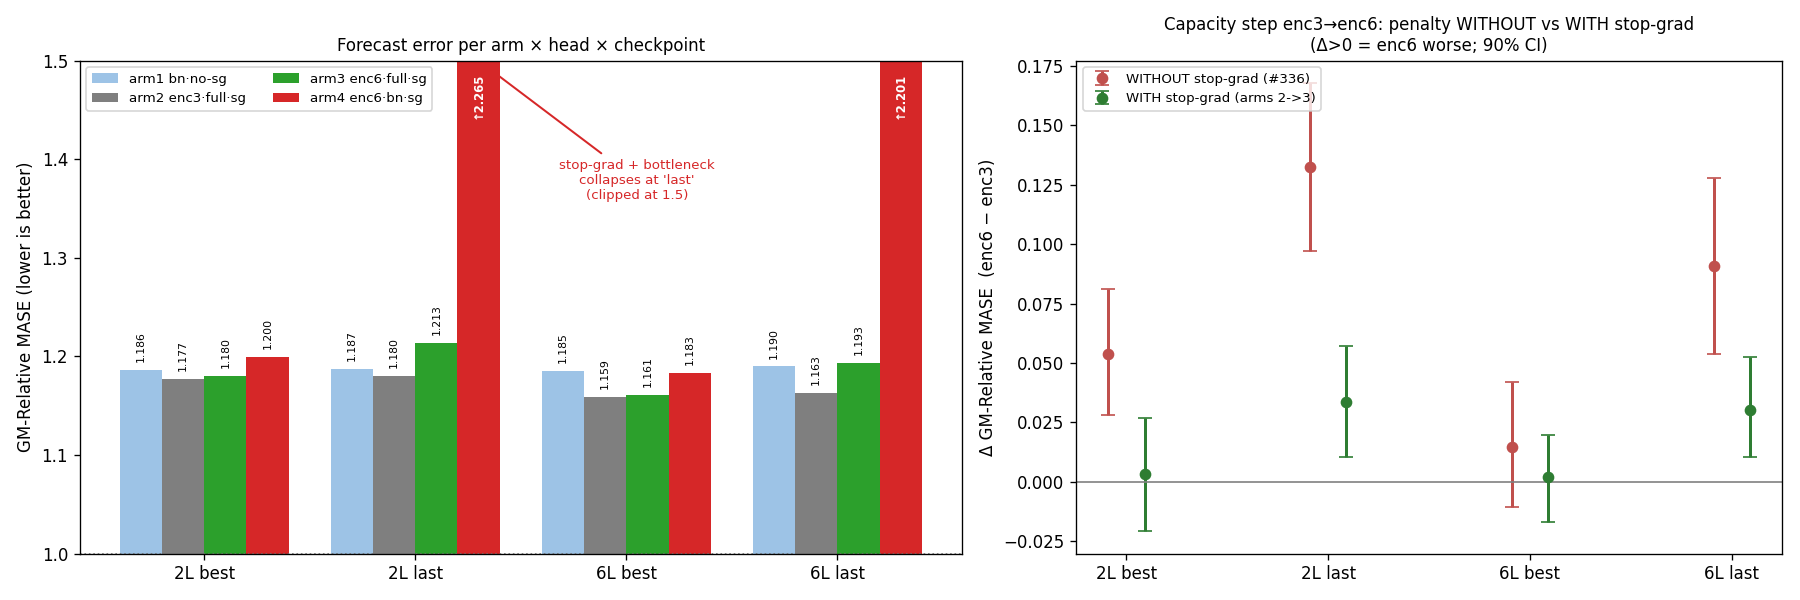
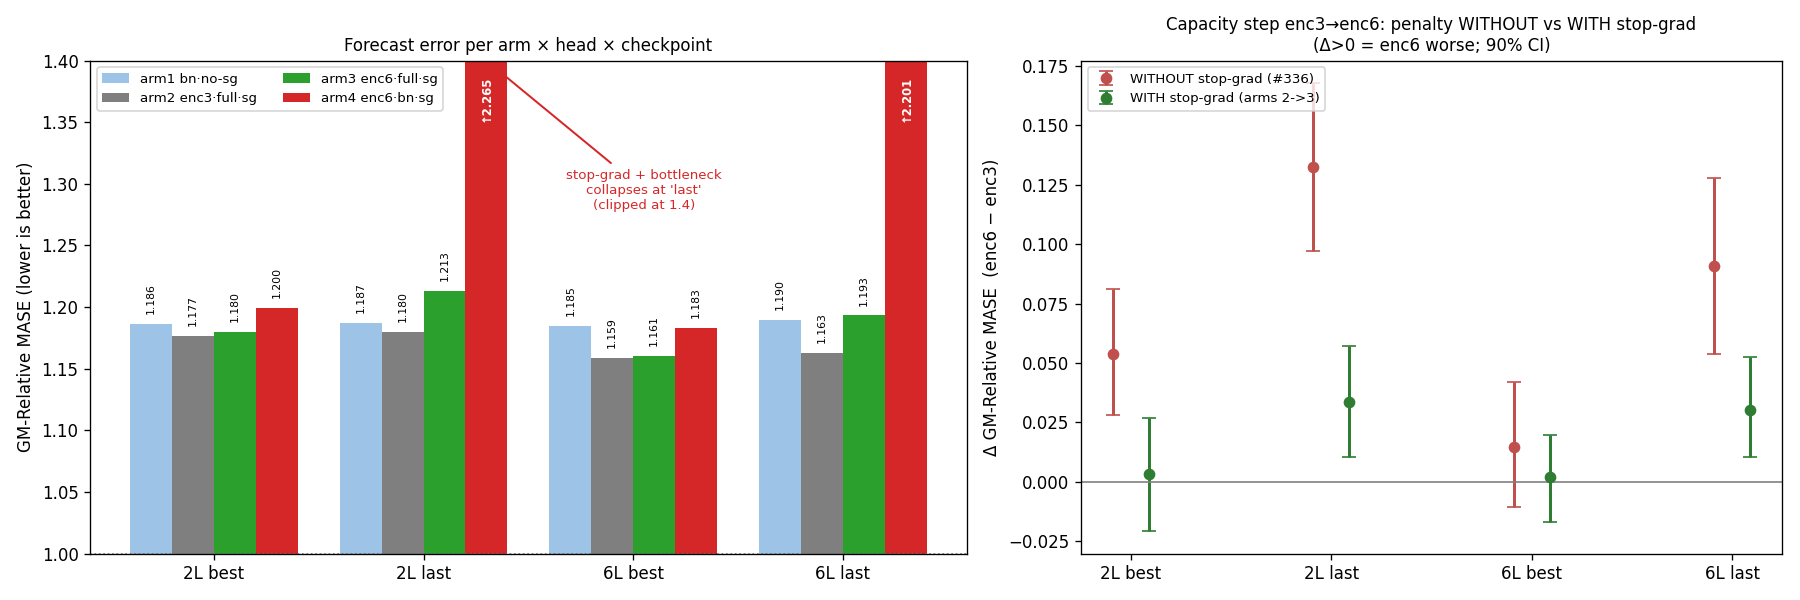
report(#341): design as comparison chain + tighter prose (per maintainer)
- design figure: replace 2x2 grid with a comparison chain (arm2 -depth-> arm3
  -width-> arm4, arm1 as no-stop-grad control under arm4). Drops the irrelevant
  never-run enc3xbottleneck cell; arm1 is now a real red control box so the
  legend's red chip has a referent.
- bar charts: clip collapsed bars at 1.4 (was 1.5) for tighter legibility.
- gm_by_arch placed above gm_summary.
- prose: sentence-by-sentence prune (remove restatements already carried by the
  figures/table); remove speculative Follow-up section; rewrite design caption
  for the chain.

diff --git a/experiments/2026-06-11_stopgrad_capacity/scripts/plot_design_grid.py b/experiments/2026-06-11_stopgrad_capacity/scripts/plot_design_grid.py
@@ -1,10 +1,9 @@
 #!/usr/bin/env python3
-"""#341 — design schematic: the four arms placed on the encoder-depth x
-forecaster-width plane (all stop-grad), so the experiment's shape is shown, not
-tabulated in prose. Arms 1-2 are reused references; 3-4 are new. Arm 1 shares the
-enc6 x bottleneck cell with arm 4 but is the no-stop-grad reference (marked). The
-two comparisons the card makes are drawn as arrows: the depth step (a2->a3) and
-the bottleneck step (a3->a4). Env: OUT.
+"""#341 — design schematic as a COMPARISON CHAIN (not a 2x2 grid: the enc3 x
+bottleneck cell is never run and irrelevant, so a grid wastes a cell). From the
+#339 stop-grad winner (arm 2), a depth step gives arm 3, then a width step gives
+arm 4. Arm 1 is the same enc6 x bottleneck architecture with the stop-grad removed
+— the control that isolates stop-grad's role in arm 4's collapse. Env: OUT.
 """
 import os
 import matplotlib
@@ -17,109 +16,70 @@ OUT = os.environ.get(
     "/tmp/cf-341/experiments/2026-06-11_stopgrad_capacity/plots/design_grid.png",
 )
 
-# grid coords: x = forecaster width, y = encoder depth
-XS = {"full": 0, "bn": 1}          # full-width left, 128-bottleneck right
-YS = {"enc3": 1, "enc6": 0}        # 3-layer top, 6-layer bottom
-XLAB = ["6-layer full-width\nforecaster", "128-wide bottleneck\nforecaster"]
-YLAB = ["6-layer encoder", "3-layer encoder"]  # row 0 = enc6, row 1 = enc3
+NEW, REUSE, NOSG = "#2ca02c", "#7f7f7f", "#c0504d"
+CW, CH = 1.34, 0.76
 
-NEW = "#2ca02c"
-REUSE = "#7f7f7f"
-NOSG = "#c0504d"
-
-# (x, y, title, sub, facecolor, edgecolor)
-CARDS = [
-    ("full", "enc3", "arm 2", "enc3 · full · sg\nreused — #339 winner", "#eef6ee", REUSE),
-    ("full", "enc6", "arm 3", "enc6 · full · sg\nNEW", "#eaf5ea", NEW),
-    ("bn",   "enc6", "arm 4", "enc6 · bn · sg\nNEW", "#eaf5ea", NEW),
-]
-
-fig, ax = plt.subplots(figsize=(9.2, 6.2))
-cw, ch = 0.78, 0.62
+fig, ax = plt.subplots(figsize=(10.6, 4.7))
 
 
-def cell_center(xk, yk):
-    return XS[xk] + 0.5, (1 - YS[yk]) + 0.5  # invert y so enc6 sits at bottom visually
-
-
-def draw_card(xk, yk, title, sub, fc, ec, lw=2.0, dashed=False):
-    cx, cy = cell_center(xk, yk)
-    box = FancyBboxPatch(
-        (cx - cw / 2, cy - ch / 2), cw, ch,
-        boxstyle="round,pad=0.02,rounding_size=0.06",
-        linewidth=lw, edgecolor=ec, facecolor=fc,
-        linestyle="--" if dashed else "-", zorder=3,
-    )
-    ax.add_patch(box)
-    ax.text(cx, cy + 0.14, title, ha="center", va="center",
+def card(cx, cy, title, sub, fc, ec, dashed=False):
+    ax.add_patch(FancyBboxPatch(
+        (cx - CW / 2, cy - CH / 2), CW, CH,
+        boxstyle="round,pad=0.02,rounding_size=0.05", linewidth=2.0,
+        edgecolor=ec, facecolor=fc, linestyle="--" if dashed else "-", zorder=3))
+    ax.text(cx, cy + CH * 0.20, title, ha="center", va="center",
             fontsize=13, fontweight="bold", color=ec, zorder=4)
-    ax.text(cx, cy - 0.08, sub, ha="center", va="center",
+    ax.text(cx, cy - CH * 0.17, sub, ha="center", va="center",
             fontsize=9.5, color="#222", zorder=4)
     return cx, cy
 
 
-# the three stop-grad arms
-centers = {}
-for xk, yk, title, sub, fc, ec in CARDS:
-    centers[(xk, yk)] = draw_card(xk, yk, title, sub, fc, ec)
+# main chain: arm 2 -> arm 3 -> arm 4 (left to right)
+y0 = 1.30
+x2, x3, x4 = 0.0, 1.98, 3.96
+card(x2, y0, "arm 2", "enc3 · full · sg\nreused — #339 winner", "#eef6ee", REUSE)
+card(x3, y0, "arm 3", "enc6 · full · sg\nNEW", "#eaf5ea", NEW)
+card(x4, y0, "arm 4", "enc6 · bn · sg\nNEW", "#eaf5ea", NEW)
+# control hanging below arm 4 (same architecture, stop-grad removed)
+y1 = 0.02
+card(x4, y1, "arm 1", "enc6 · bn · NO sg\nreused — #336 control", "#fbeaea", NOSG)
 
-# arm 1: the no-stop-grad reference shares the enc6 x bottleneck cell with arm 4.
-# Draw it as a small offset/dashed tag so the reader sees it is the SAME architecture
-# minus the stop-grad, not a fifth cell.
-cx4, cy4 = centers[("bn", "enc6")]
-ax.text(cx4, cy4 - ch / 2 - 0.135,
-        "arm 1 — same cell, NO stop-grad (reused #336 reference)",
-        ha="center", va="center", fontsize=9, color=NOSG, fontweight="bold", zorder=4)
 
-# empty stop-grad cell (enc3 x bottleneck) — never run
-ecx, ecy = cell_center("bn", "enc3")
-ax.add_patch(FancyBboxPatch(
-    (ecx - cw / 2, ecy - ch / 2), cw, ch,
-    boxstyle="round,pad=0.02,rounding_size=0.06",
-    linewidth=1.4, edgecolor="#bbbbbb", facecolor="#f4f4f4",
-    linestyle=":", zorder=2))
-ax.text(ecx, ecy, "(not run)", ha="center", va="center",
-        fontsize=10, color="#999", style="italic", zorder=3)
+def harrow(xa, xb, y, color):
+    ax.add_patch(FancyArrowPatch((xa, y), (xb, y), arrowstyle="-|>",
+                 mutation_scale=20, lw=2.2, color=color, zorder=5))
 
-# comparison arrows
-# depth step: a2 (enc3 full) -> a3 (enc6 full), vertical
-c2 = centers[("full", "enc3")]; c3 = centers[("full", "enc6")]
-ax.add_patch(FancyArrowPatch(
-    (c2[0] - 0.12, c2[1] - ch / 2), (c3[0] - 0.12, c3[1] + ch / 2),
-    arrowstyle="-|>", mutation_scale=18, lw=2.0, color="#1a6e1a", zorder=5))
-ax.text(c2[0] - 0.30, (c2[1] + c3[1]) / 2, "depth step\nenc3→enc6", ha="right",
-        va="center", fontsize=9, color="#1a6e1a", fontweight="bold")
 
-# bottleneck step: a3 (enc6 full) -> a4 (enc6 bn), horizontal
-c4 = centers[("bn", "enc6")]
-ax.add_patch(FancyArrowPatch(
-    (c3[0] + cw / 2, c3[1] - 0.04), (c4[0] - cw / 2, c4[1] - 0.04),
-    arrowstyle="-|>", mutation_scale=18, lw=2.0, color="#b8860b", zorder=5))
-ax.text((c3[0] + c4[0]) / 2, c3[1] + 0.12, "width step\nfull→bottleneck", ha="center",
-        va="bottom", fontsize=9, color="#b8860b", fontweight="bold")
+# depth step: arm 2 -> arm 3
+harrow(x2 + CW / 2, x3 - CW / 2, y0, "#1a6e1a")
+ax.text((x2 + x3) / 2, y0 + CH / 2 + 0.10, "depth step\nenc3→enc6", ha="center",
+        va="bottom", fontsize=10, color="#1a6e1a", fontweight="bold")
+# width step: arm 3 -> arm 4
+harrow(x3 + CW / 2, x4 - CW / 2, y0, "#b8860b")
+ax.text((x3 + x4) / 2, y0 + CH / 2 + 0.10, "width step\nfull→bottleneck", ha="center",
+        va="bottom", fontsize=10, color="#b8860b", fontweight="bold")
+# control: arm 4 -> arm 1 (remove stop-grad), vertical dashed
+ax.add_patch(FancyArrowPatch((x4, y0 - CH / 2), (x4, y1 + CH / 2), arrowstyle="-|>",
+             mutation_scale=20, lw=2.2, color=NOSG, zorder=5, linestyle="--"))
+ax.text(x4 + CW / 2 + 0.14, (y0 + y1) / 2, "remove\nstop-grad\n(control)", ha="left",
+        va="center", fontsize=9.5, color=NOSG, fontweight="bold")
 
-# axes cosmetics
-ax.set_xlim(-0.55, 2.05)
-ax.set_ylim(-0.35, 2.15)
-ax.set_xticks([0.5, 1.5]); ax.set_xticklabels(XLAB, fontsize=10.5)
-ax.set_yticks([1.5, 0.5]); ax.set_yticklabels(YLAB, fontsize=10.5)
-ax.tick_params(length=0)
-for s in ax.spines.values():
-    s.set_visible(False)
-ax.set_title("Four arms on the encoder-depth × forecaster-width plane "
-             "(all stop-grad unless marked)", fontsize=12.5, pad=12)
+ax.set_xlim(-CW / 2 - 0.35, x4 + CW / 2 + 1.55)
+ax.set_ylim(y1 - CH / 2 - 0.30, y0 + CH / 2 + 0.62)
+ax.axis("off")
+ax.set_title("The four arms as a comparison chain: two capacity steps under stop-grad, "
+             "plus the no-stop-grad control", fontsize=12.5, pad=8)
 
-# legend chips
 handles = [
-    plt.Line2D([0], [0], marker="s", color="w", markerfacecolor="w",
-               markeredgecolor=NEW, markeredgewidth=2, markersize=13, label="new this card (stop-grad)"),
-    plt.Line2D([0], [0], marker="s", color="w", markerfacecolor="w",
-               markeredgecolor=REUSE, markeredgewidth=2, markersize=13, label="reused reference (stop-grad)"),
-    plt.Line2D([0], [0], marker="s", color="w", markerfacecolor="w",
-               markeredgecolor=NOSG, markeredgewidth=2, markersize=13, label="reused reference (NO stop-grad)"),
+    plt.Line2D([0], [0], marker="s", color="w", markerfacecolor="w", markeredgecolor=NEW,
+               markeredgewidth=2, markersize=13, label="new this card (stop-grad)"),
+    plt.Line2D([0], [0], marker="s", color="w", markerfacecolor="w", markeredgecolor=REUSE,
+               markeredgewidth=2, markersize=13, label="reused reference (stop-grad)"),
+    plt.Line2D([0], [0], marker="s", color="w", markerfacecolor="w", markeredgecolor=NOSG,
+               markeredgewidth=2, markersize=13, label="reused control (NO stop-grad)"),
 ]
 ax.legend(handles=handles, loc="lower left", fontsize=9, framealpha=0.9,
-          bbox_to_anchor=(-0.02, -0.02))
+          bbox_to_anchor=(0.0, 0.0))
 
 fig.tight_layout()
 os.makedirs(os.path.dirname(OUT), exist_ok=True)

diff --git a/experiments/2026-06-11_stopgrad_capacity/scripts/plot_gm_summary_sgcap.py b/experiments/2026-06-11_stopgrad_capacity/scripts/plot_gm_summary_sgcap.py
@@ -37,7 +37,7 @@ ARMS = [  # key, label, color
 ]
 fig, (axL, axR) = plt.subplots(1, 2, figsize=(15, 5), width_ratios=[1.25, 1])
 
-CEIL = 1.5  # collapsed bars (~2.2) are clipped here so the ~1.16-1.21 differences stay legible
+CEIL = 1.4  # collapsed bars (~2.2) are clipped here so the ~1.16-1.21 differences stay legible
 x = np.arange(len(CELLS)); w = 0.8 / len(ARMS)
 for j, (key, lab, col) in enumerate(ARMS):
     vals = [gm.get((key, h, c), np.nan) for h, c in CELLS]
@@ -58,8 +58,8 @@ axL.set_ylabel("GM-Relative MASE (lower is better)")
 axL.set_ylim(1.0, CEIL)
 axL.legend(fontsize=8, ncols=2, loc="upper left")
 axL.set_title("Forecast error per arm × head × checkpoint", fontsize=10)
-axL.annotate("stop-grad + bottleneck\ncollapses at 'last'\n(clipped at 1.5)", xy=(1.30, CEIL),
-             xytext=(2.05, 1.36), fontsize=8, color="#d62728", ha="center",
+axL.annotate("stop-grad + bottleneck\ncollapses at 'last'\n(clipped at 1.4)", xy=(1.30, CEIL),
+             xytext=(2.05, 1.28), fontsize=8, color="#d62728", ha="center",
              arrowprops=dict(arrowstyle="->", color="#d62728", lw=1.2))
 
 # Right: capacity step enc3->enc6, no-sg vs sg.

diff --git a/experiments/2026-06-11_stopgrad_capacity/scripts/plot_gm_by_arch.py b/experiments/2026-06-11_stopgrad_capacity/scripts/plot_gm_by_arch.py
@@ -32,7 +32,7 @@ CELLS = [("2L", "best", "2L best", "#a6d96a"),
          ("2L", "last", "2L last", "#fdae61"),
          ("6L", "last", "6L last", "#d7191c")]
 
-CEIL = 1.5  # collapsed bars (~2.2) are clipped here so the ~1.16-1.21 differences stay legible
+CEIL = 1.4  # collapsed bars (~2.2) are clipped here so the ~1.16-1.21 differences stay legible
 fig, ax = plt.subplots(figsize=(11, 5.2))
 x = np.arange(len(ARMS)); w = 0.8 / len(CELLS)
 for j, (h, c, lab, col) in enumerate(CELLS):
@@ -54,8 +54,8 @@ ax.set_ylabel("GM-Relative MASE (lower is better)")
 ax.set_ylim(1.0, CEIL)
 ax.legend(fontsize=8, ncols=5, loc="upper center")
 ax.set_title("GM-Relative MASE by architecture (one bar per head × checkpoint)", fontsize=11)
-ax.annotate("only arm 4's 'last' bars collapse\n(clipped at 1.5; true values labelled)",
-            xy=(3.0, CEIL), xytext=(1.75, 1.40),
+ax.annotate("only arm 4's 'last' bars collapse\n(clipped at 1.4; true values labelled)",
+            xy=(3.0, CEIL), xytext=(1.75, 1.30),
             fontsize=8, color="#d7191c", ha="center",
             arrowprops=dict(arrowstyle="->", color="#d7191c", lw=1.2))
 fig.tight_layout()

diff --git a/experiments/2026-06-11_stopgrad_capacity/stopgrad_capacity.md b/experiments/2026-06-11_stopgrad_capacity/stopgrad_capacity.md
@@ -5,22 +5,27 @@ InfoNCE positive improved transfer; #336 (no stop-grad) found growing the encode
 *hurt* transfer. Does adding the stop-grad flip the sign of that depth knob — make the extra
 capacity start to pay — and how does it interact with the forecaster bottleneck?
 
-## The design: four arms, two stop-grad comparisons
+## The design
 
-![Four arms placed on the encoder-depth × forecaster-width plane. Arm 2 (enc3·full·sg,
-reused #339) and arm 3 (enc6·full·sg, new) bracket the depth step; arm 3 and arm 4
-(enc6·bottleneck·sg, new) bracket the width step. Arm 1 (enc6·bottleneck, reused #336)
-occupies the same cell as arm 4 but is the no-stop-grad reference. The enc3·bottleneck·sg
-cell was not run.](plots/design_grid.png)
+![The four arms as a comparison chain. From arm 2 (enc3·full·sg, the reused #339 stop-grad
+winner), a depth step gives the new arm 3 (enc6·full·sg) and a further width step gives the
+new arm 4 (enc6·bottleneck·sg). Arm 1 (enc6·bottleneck, reused #336) is arm 4 with the
+stop-grad removed — the control that isolates stop-grad's role in the
+collapse.](plots/design_grid.png)
 
-Both new backbones (arms 3–4) use stop-grad; the two reused references are arm 1 (no
-stop-grad, #336) and arm 2 (stop-grad, #339). Nothing this card trained omits the
-stop-grad. All four share the GRU patch-embedding, d_model 384 / 6 heads, the
-crossfade-triplet mix, 12,500 steps at batch 1024, and seed 20260520.
+All four share the GRU patch-embedding, d_model 384 / 6 heads, the crossfade-triplet mix,
+12,500 steps at batch 1024, and seed 20260520.
 
 ## Result
 
-![Left: GM-Relative MASE per arm × head × checkpoint (collapsed bars clipped at 1.5, true
+![GM-Relative MASE grouped by architecture, four bars (head × checkpoint) per arm, collapsed
+bars clipped at 1.4. Only arm 4 splits within-arm — best-loss with the pack, last-checkpoint
+collapsed; the other three arms are flat across all four cells.](plots/gm_by_arch.png)
+
+The collapse is specific to the bottleneck-plus-stop-grad combination and only at full
+training: forecaster width is the only knob differing between arm 4 and the stable arm 3.
+
+![Left: GM-Relative MASE per arm × head × checkpoint (collapsed bars clipped at 1.4, true
 value labelled). Every arm sits at 1.16–1.21 except arm 4, whose last-checkpoint bars jump
 above 2.2 while its best-loss bars stay with the pack. Right: the depth step enc3→enc6 as a
 paired-bootstrap Δ with 90% interval — without stop-grad (red) it is a penalty on three of
@@ -29,15 +34,7 @@ below.](plots/gm_summary.png)
 
 Stop-grad neutralises most of the depth penalty (green intervals straddle or barely clear
 zero) but the deeper encoder never *beats* the shallower one — capacity does not start to
-pay. Separately, the stop-grad + bottleneck arm (red, arm 4) is normal at best-loss and
-collapses below seasonal-naive at the last checkpoint; the full-width arm does not.
-
-![GM-Relative MASE grouped by architecture, four bars (head × checkpoint) per arm, collapsed
-bars clipped at 1.5. Only arm 4 splits within-arm — best-loss with the pack, last-checkpoint
-collapsed; the other three arms are flat across all four cells.](plots/gm_by_arch.png)
-
-The collapse is specific to the bottleneck-plus-stop-grad combination and only at full
-training: forecaster width is the only knob differing between arm 4 and the stable arm 3.
+pay.
 
 *Forecast error is **GM-Relative MASE**: the geometric mean, over GIFT-Eval's 97 forecasting
 tasks, of a model's error divided by the seasonal-naive forecast's error. Lower is better;
@@ -89,12 +86,3 @@ cell; the table reports the re-adapt head.
   full-width stop-grad arm nor the no-stop-grad bottleneck base shows.
 - **Use the best-loss checkpoint for these stop-grad recipes.** Transfer peaks at step
   ~1000–1300 and degrades after; the smoothed-loss minimum is a good selector.
-
-## Follow-up
-
-Best transfer at step ~1000–1300 is an order of magnitude before the 12,500-step budget — a
-**stop-grad + early-stop** card (**#343**) tests whether the recipe's downstream numbers hold
-at a fraction of the compute. The bottleneck collapse motivates a **forecaster-width sweep
-under stop-grad** to locate where stability breaks.
-
-Next: #343
